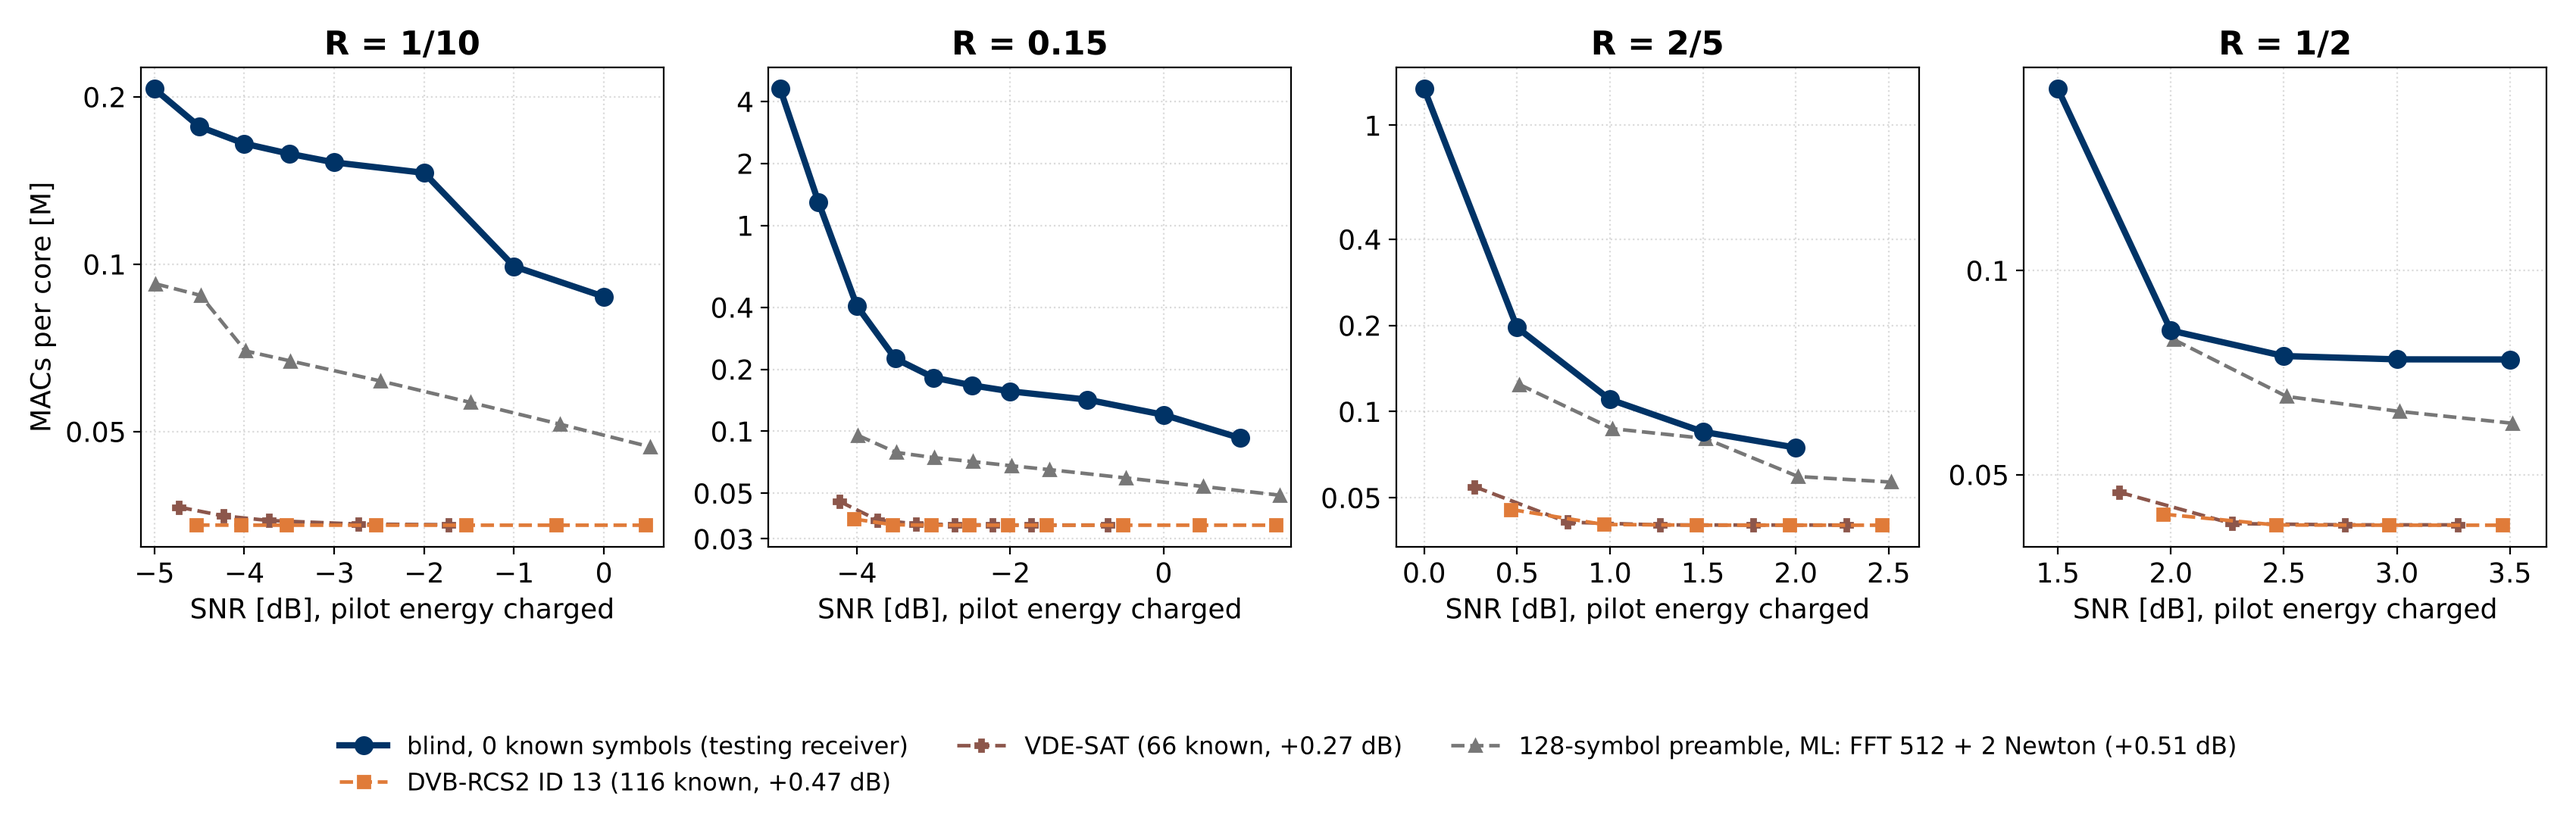
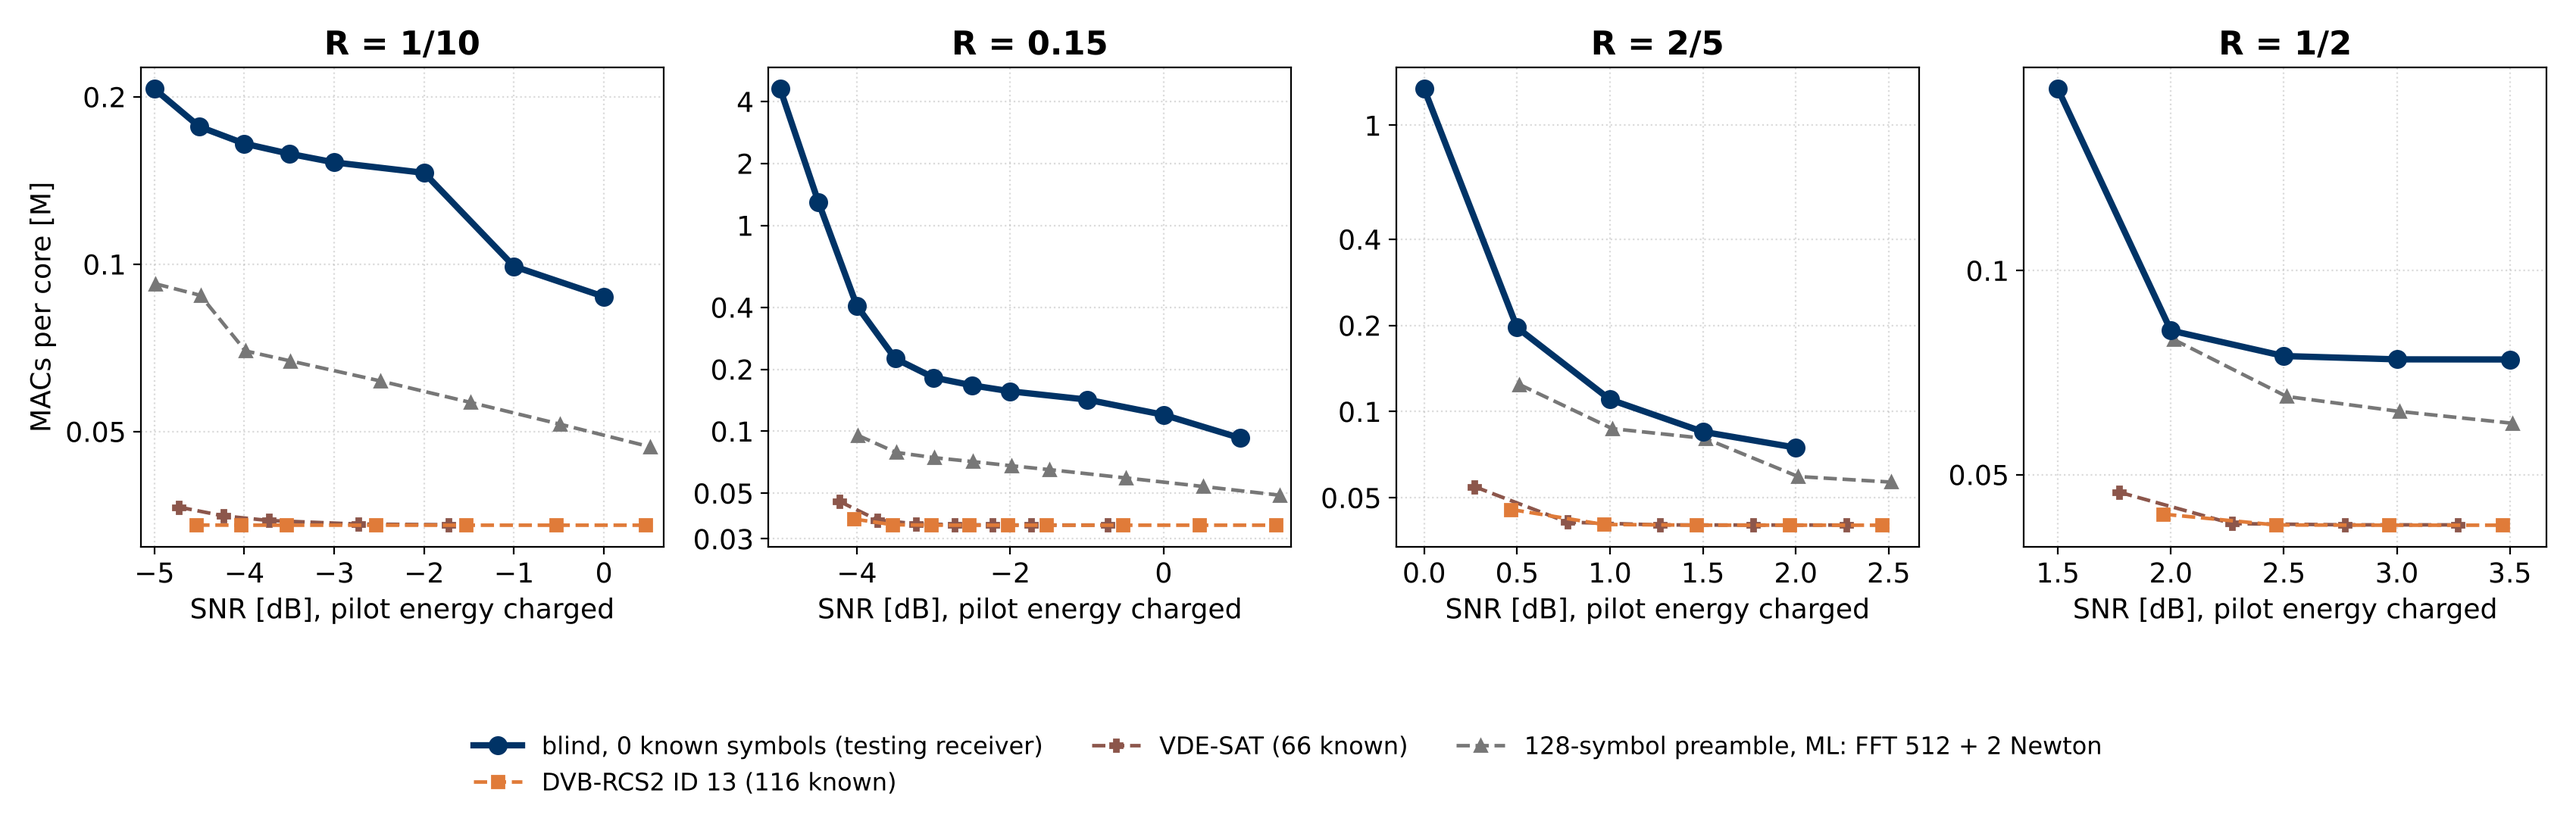
Slides: legends without the pilot-energy dB
Claude-Session: https://claude.ai/code/session_01Uut9iw5SnA6a3eeYDv3vkc

Changed region(s): [[0.1247, 0.8861, 0.8729, 0.9778]]

diff --git a/slides_eq/plot_fair.py b/slides_eq/plot_fair.py
@@ -21,9 +21,9 @@ HERE = os.path.dirname(os.path.abspath(__file__))
 D = json.load(open(os.path.join(HERE, "data", "curves_17b16ea.json")))
 RATES = ("1/10", "0.15", "2/5", "1/2")
 NAVY = "#003366"
-COMP = (("RCS2-13", "DVB-RCS2 ID 13 (116 known, +0.47 dB)", "#E07B39", "s"),
-        ("VDE-SAT", "VDE-SAT (66 known, +0.27 dB)", "#8c564b", "P"),
-        ("pre128 ML", "128-symbol preamble, ML: FFT 512 + 2 Newton (+0.51 dB)", "#777777", "^"))
+COMP = (("RCS2-13", "DVB-RCS2 ID 13 (116 known)", "#E07B39", "s"),
+        ("VDE-SAT", "VDE-SAT (66 known)", "#8c564b", "P"),
+        ("pre128 ML", "128-symbol preamble, ML: FFT 512 + 2 Newton", "#777777", "^"))
 plt.rcParams.update({"font.size": 13, "font.family": "DejaVu Sans"})
 
 
